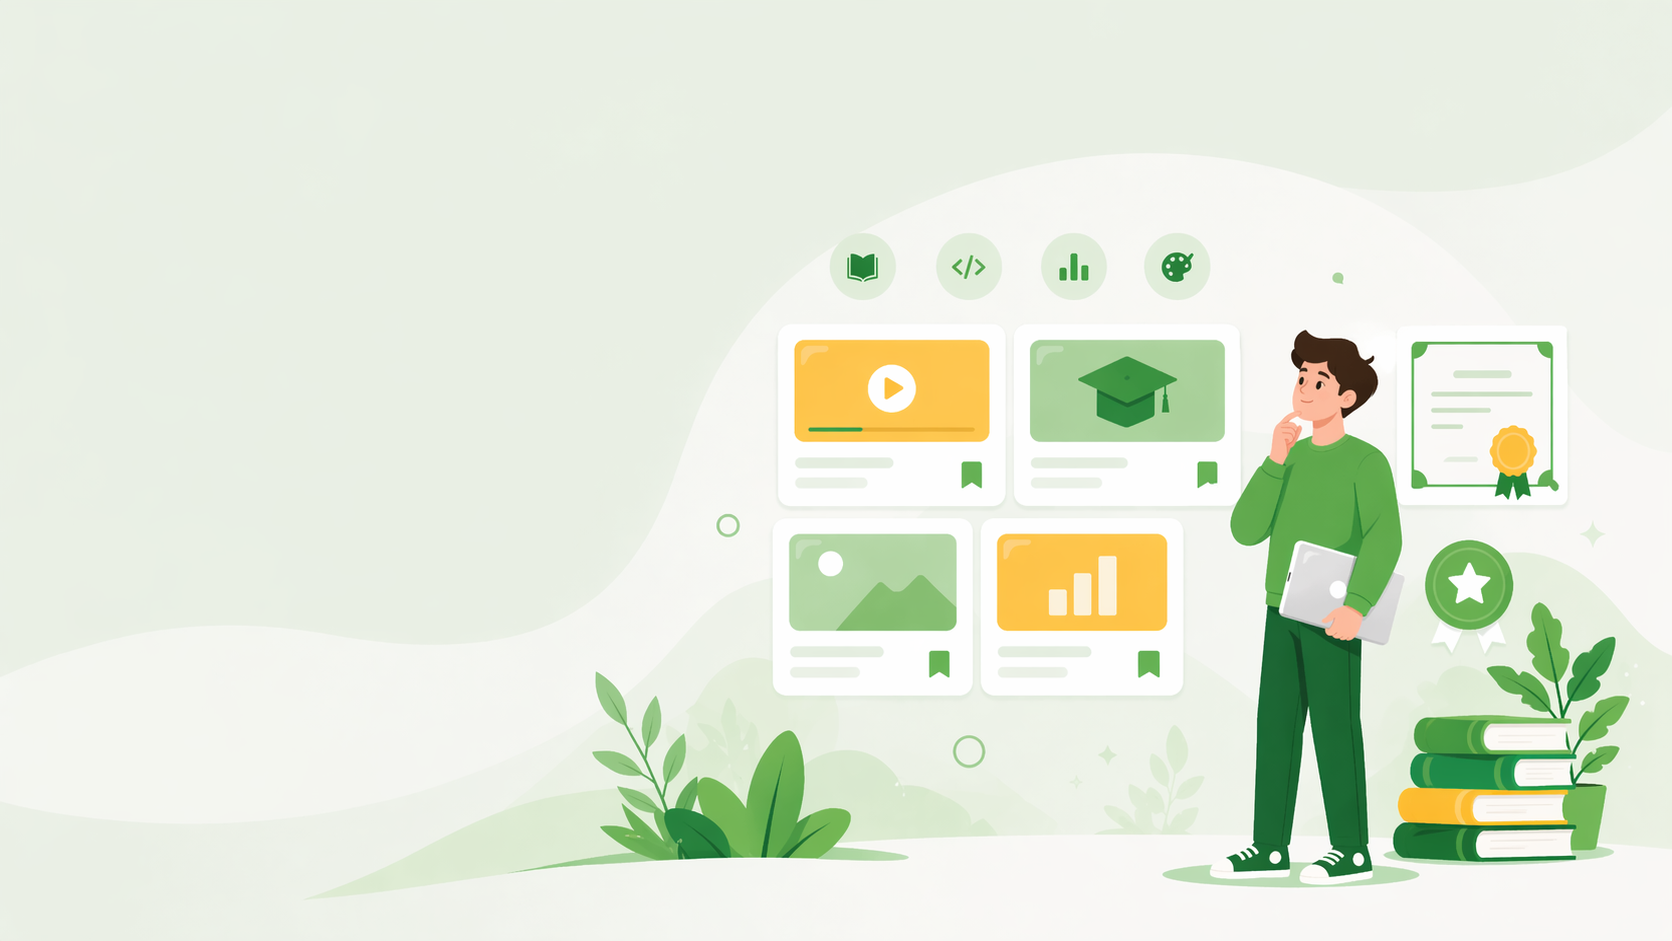
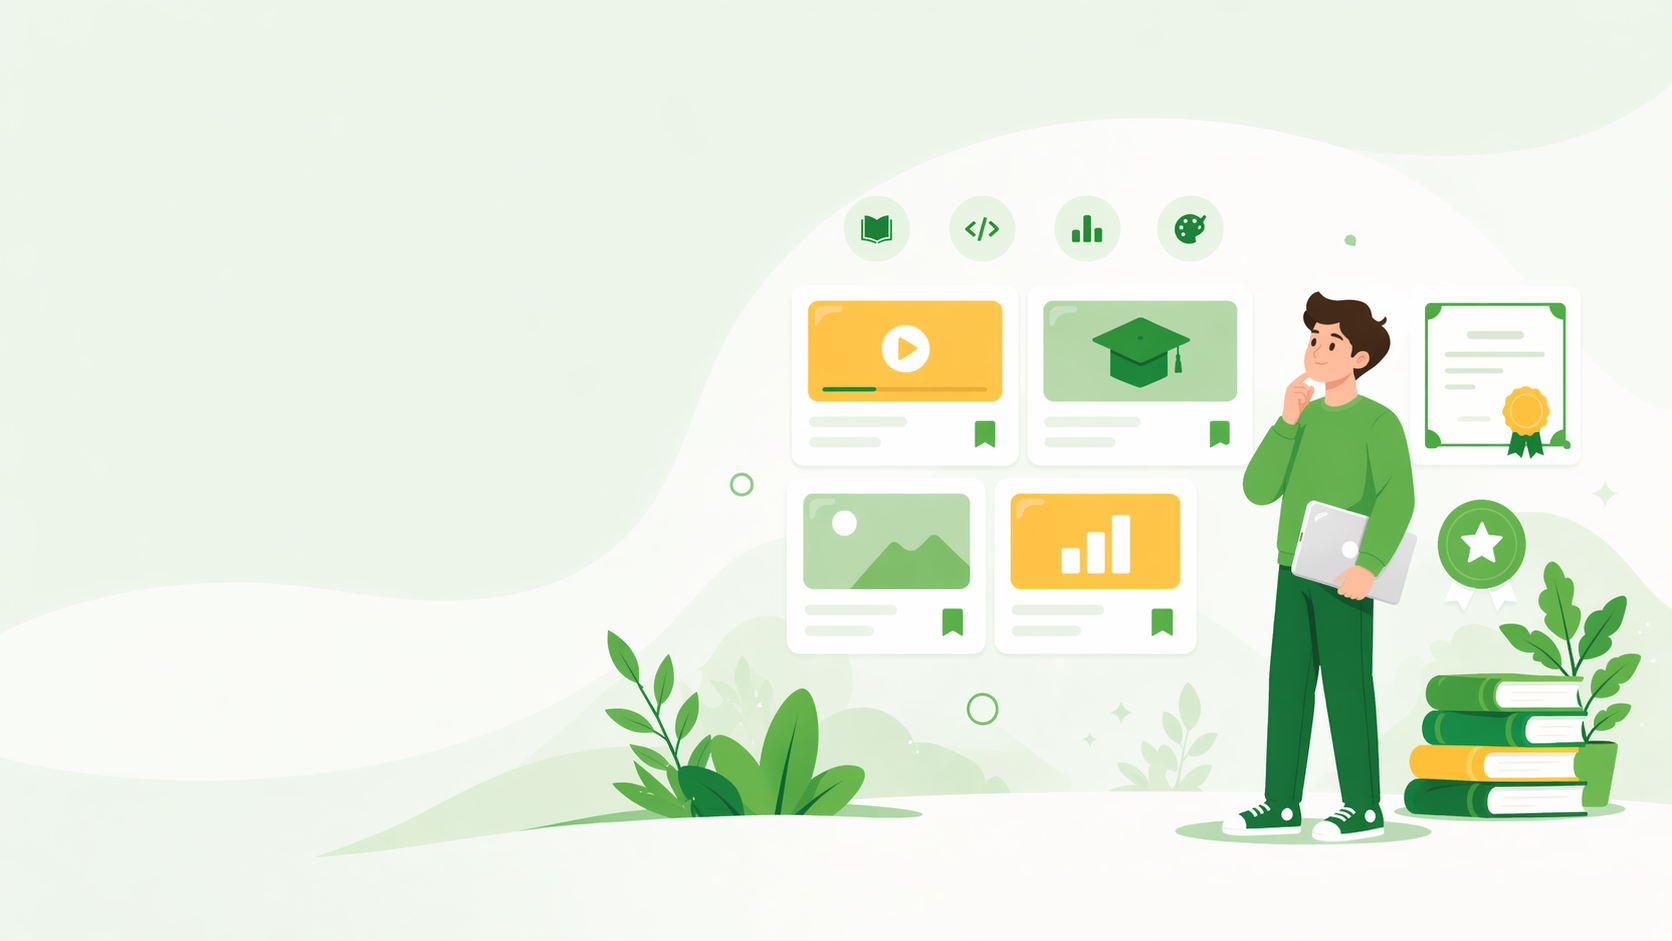
made the looks of the courses hero same as the home page

Changed region(s): [[0.1866, 0.2157, 0.9952, 0.9554], [0.4354, 0.4931, 0.4665, 0.5239]]

diff --git a/styles/courses.css b/styles/courses.css
@@ -20,6 +20,7 @@
 .CoursesHero {
   margin-top: 0;
   margin-bottom: 24px;
+  width: 100%;
   padding: 28px;
   min-height: 600px;
   background-image: url(../img/courses_hero.png);
@@ -27,12 +28,18 @@
   background-position: center;
   background-repeat: no-repeat;
   box-shadow: 0 0 8px lightgrey;
+
+  display: flex;
+  flex-direction: column;
+  flex-wrap: wrap;
+  align-items: flex-start;
+  justify-content: flex-start;
+  padding: 60px 6%;
 }
 
 .CoursesHero h1 {
-  font-size: 42px;
+  font-size: 350%;
   margin-bottom: 10px;
-  color: var(--primary-dark);
 }
 
 .CoursesLayout {
@@ -57,11 +64,7 @@
 .CoursesIntro {
   color: var(--muted);
   max-width: 760px;
-}
-
-.CoursesIntro {
-  color: var(--muted);
-  max-width: 760px;
+  font-size: 200%;
 }
 
 .TopControls {
